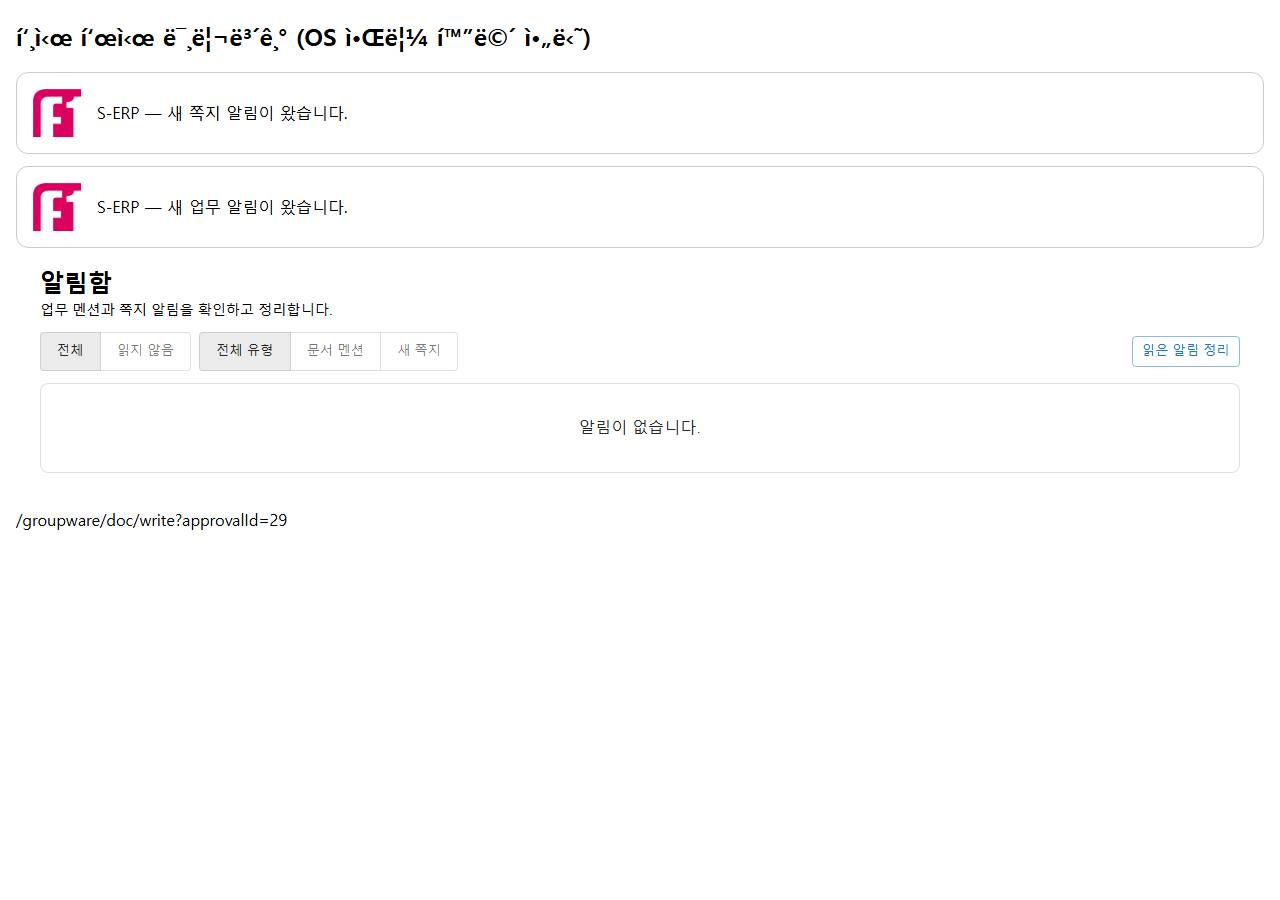
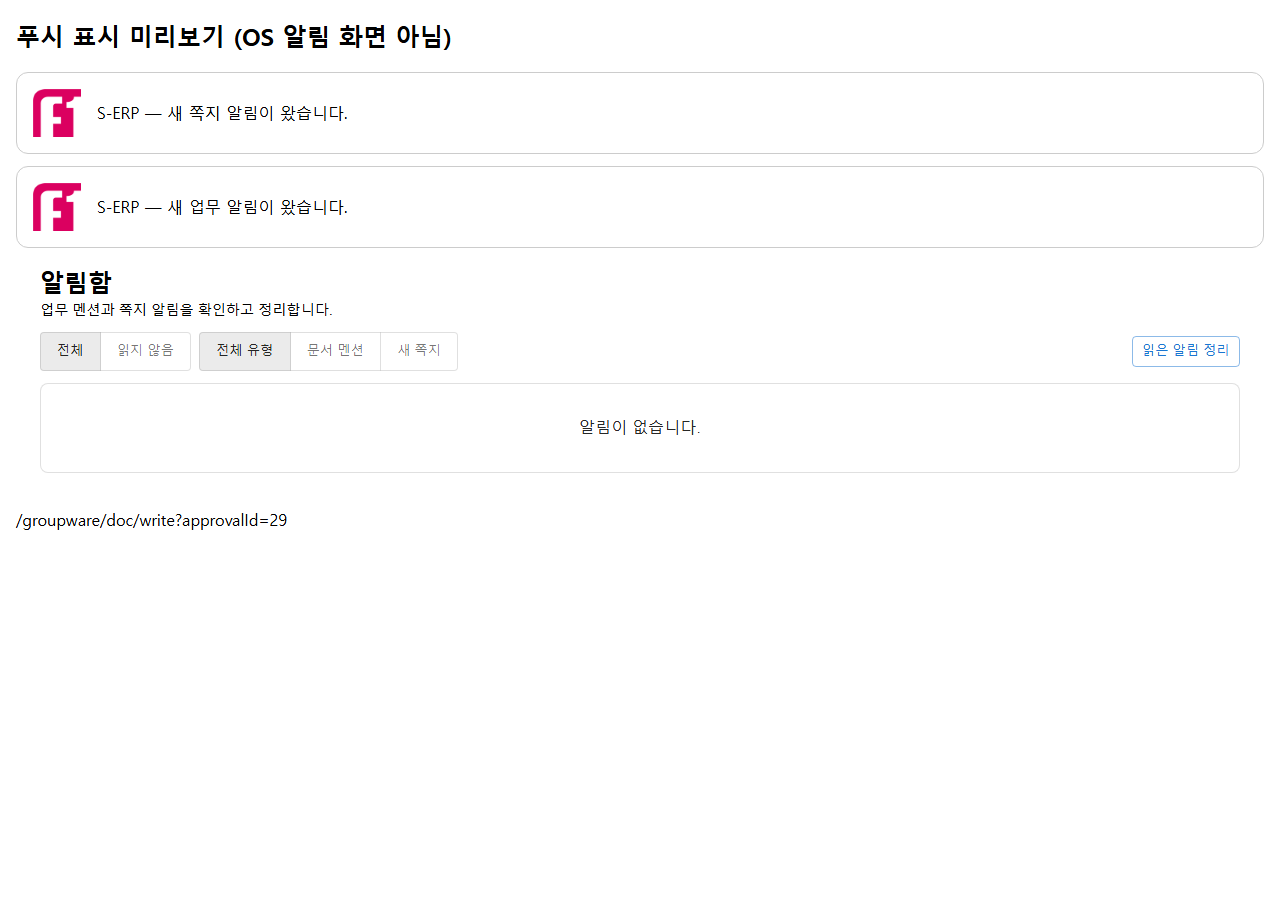
웹푸쉬 기능

Changed region(s): [[0.0, 0.0311, 0.4688, 0.0622]]

diff --git a/backend/src/test/java/egovframework/let/groupware/notification/NotificationMapperXmlTest.java b/backend/src/test/java/egovframework/let/groupware/notification/NotificationMapperXmlTest.java
@@ -55,6 +55,7 @@ class NotificationMapperXmlTest {
         assertTrue(pushState.contains("notification_id = #{notificationId}"));
         assertTrue(pushState.contains("tenant_id AS tenantId"));
         assertTrue(pushState.contains("recipient_user_id AS recipientUserId"));
+        assertTrue(pushState.contains("event_type AS eventType"));
         assertTrue(pushState.contains("archived_at AS archivedAt"));
     }
 

diff --git a/docs/directions/20261103/20261103_005_웹푸시_공통서비스_작업지시서.md b/docs/directions/20261103/20261103_005_웹푸시_공통서비스_작업지시서.md
@@ -17,7 +17,7 @@
 - 사용자/테넌트별 브라우저 기기 구독을 등록, 갱신, 해제하고 중복 등록을 멱등하게 처리한다.
 - 알림 행과 전달 대기 작업을 하나의 DB transaction에서 저장하고, 공통 worker가 비동기 전송한다.
 - delivery를 알림·기기별로 기록해 일시 오류 재시도, 최종 실패, HTTP 404/410 구독 정리 및 중복 억제를 적용한다.
-- payload와 OS 표시에는 일반 문구와 알림 ID만 포함한다. 푸시 선택 시 앱 내에서 로그인, tenant, 알림 소유자, 원본 접근 권한을 다시 검증한다.
+- payload에는 알림 ID와 일반 알림 종류만 포함하고 OS에는 종류별 고정 문구를 표시한다. 푸시 선택 시 앱 내에서 로그인, tenant, 알림 소유자, 원본 접근 권한을 다시 검증한다.
 - 미지원/권한 거부/오프라인/전송 실패에서도 기존 인앱 알림과 쪽지 흐름을 유지한다.
 - 날짜별 DB migration/change record/rollback, 누적 schema 문서, 테스트, 반응형 브라우저 확인과 작업 결과를 포함한다.
 
